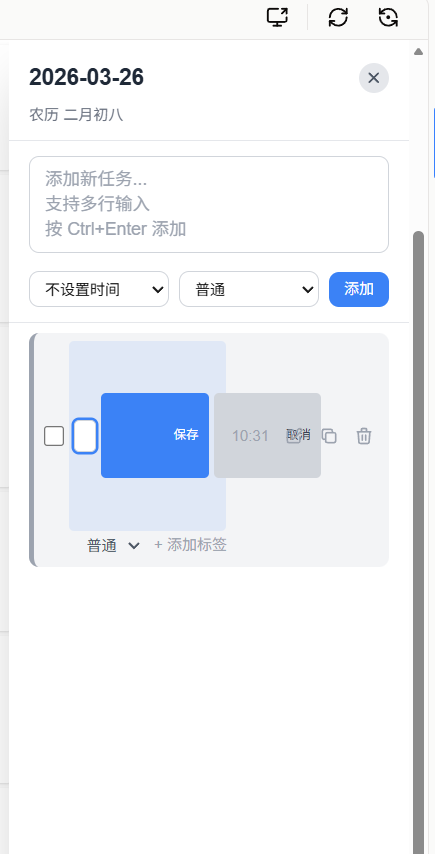
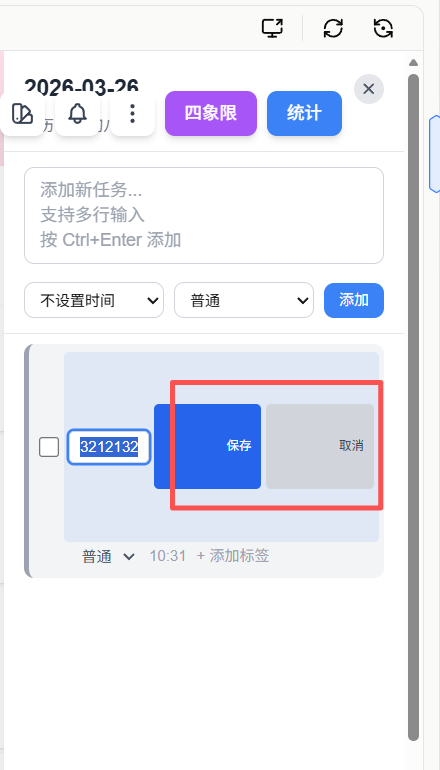
fix: 优化任务编辑框显示
- 将 input 改为 textarea，支持多行文本显示
- textarea 自动高度调整，根据内容动态扩展
- 缩小保存/取消按钮尺寸：px-2 py-1 → px-1.5 py-0.5
- 文本框全宽显示，按钮移至下方右对齐
- 保存快捷键改为 Ctrl+Enter（避免误触）

diff --git a/src/main.ts b/src/main.ts
@@ -3796,28 +3796,32 @@ class DailyPlanner {
               .replace(/>/g, '&gt;')
               .replace(/"/g, '&quot;');
             textSpan.innerHTML = `
-              <div class="flex items-center gap-1 w-full">
-                <input type="text" 
-                       id="edit-input-${taskId}"
-                       class="flex-1 min-w-0 px-2 py-1 border ${isDark ? 'bg-gray-600 border-gray-500 text-gray-100' : 'bg-white border-gray-300 text-gray-700'} rounded focus:outline-none focus:ring-2 focus:ring-blue-500 text-xs select-text"
-                       value="${escapedText}"
-                       onkeydown="if(event.key === 'Enter') { event.preventDefault(); planner.editTask('${taskId}', this.value); } else if(event.key === 'Escape') { planner.updateTaskPanel(); }">
-                <button onclick="planner.editTask('${taskId}', document.getElementById('edit-input-${taskId}').value)"
-                        class="flex-shrink-0 px-2 py-1 bg-blue-500 hover:bg-blue-600 text-white text-[10px] rounded transition-colors">
-                  保存
-                </button>
-                <button onclick="planner.updateTaskPanel()"
-                        class="flex-shrink-0 px-2 py-1 bg-gray-300 hover:bg-gray-400 text-gray-700 text-[10px] rounded transition-colors">
-                  取消
-                </button>
+              <div class="w-full">
+                <textarea id="edit-input-${taskId}"
+                       class="w-full px-2 py-1 border ${isDark ? 'bg-gray-600 border-gray-500 text-gray-100' : 'bg-white border-gray-300 text-gray-700'} rounded focus:outline-none focus:ring-2 focus:ring-blue-500 text-xs select-text resize-none overflow-hidden"
+                       rows="1"
+                       oninput="this.style.height = 'auto'; this.style.height = this.scrollHeight + 'px';"
+                       onkeydown="if(event.key === 'Enter' && event.ctrlKey) { event.preventDefault(); planner.editTask('${taskId}', this.value); } else if(event.key === 'Escape') { planner.updateTaskPanel(); }">${escapedText}</textarea>
+                <div class="flex justify-end gap-1 mt-1">
+                  <button onclick="planner.editTask('${taskId}', document.getElementById('edit-input-${taskId}').value)"
+                          class="px-1.5 py-0.5 bg-blue-500 hover:bg-blue-600 text-white text-[10px] rounded transition-colors">
+                    保存
+                  </button>
+                  <button onclick="planner.updateTaskPanel()"
+                          class="px-1.5 py-0.5 bg-gray-300 hover:bg-gray-400 text-gray-700 text-[10px] rounded transition-colors">
+                    取消
+                  </button>
+                </div>
               </div>
             `;
-            const input = textSpan.querySelector('input');
-            if (input) {
-              input.focus();
-              // 延迟调用 select 确保 DOM 渲染完成
+            const textarea = textSpan.querySelector('textarea');
+            if (textarea) {
+              // 设置初始高度
               setTimeout(() => {
-                input.select();
+                textarea.style.height = 'auto';
+                textarea.style.height = textarea.scrollHeight + 'px';
+                textarea.focus();
+                textarea.select();
               }, 0);
             }
           }
